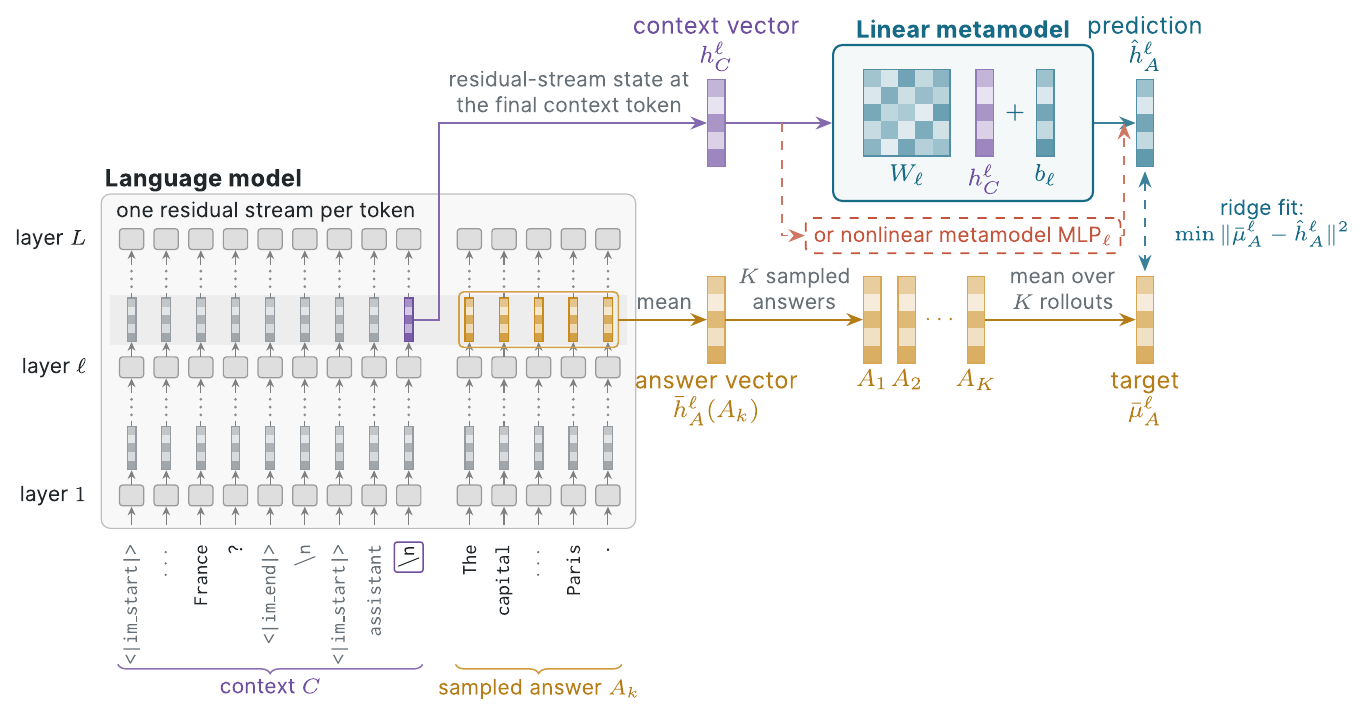
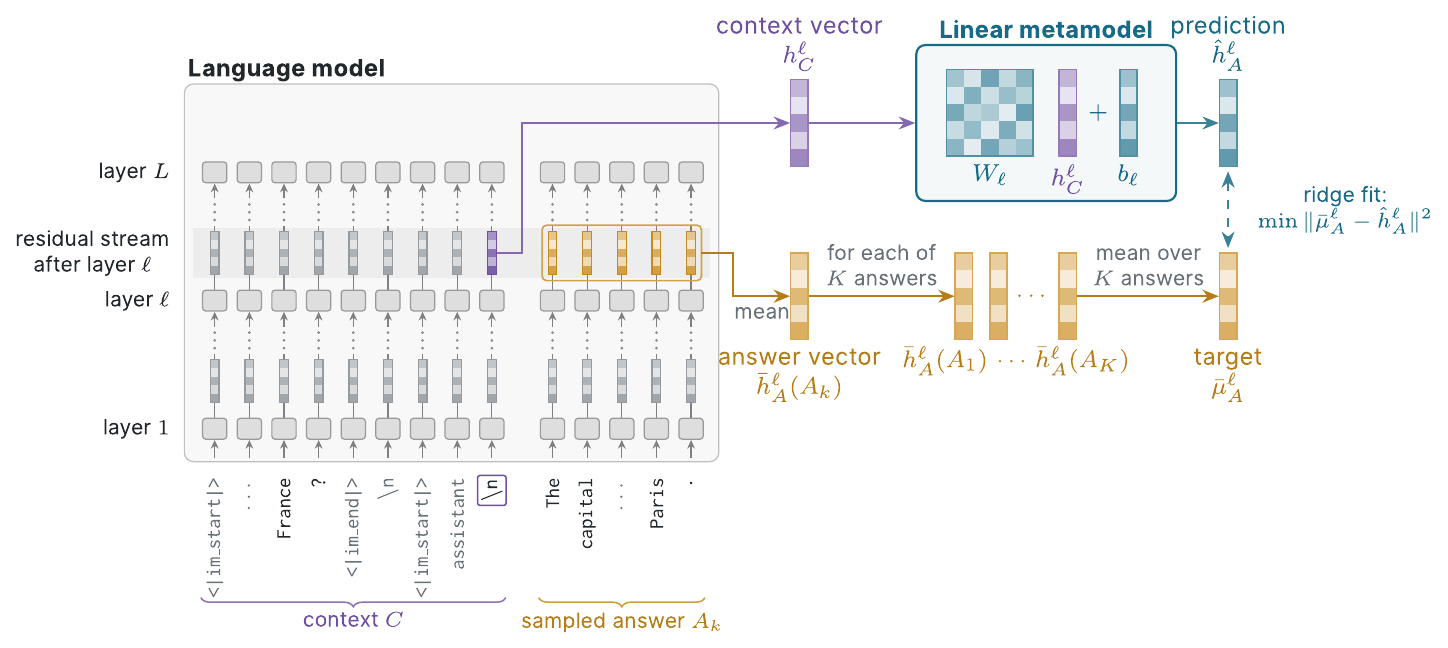
paper fig1 rev 11: model raised, continuous residual-stream lines + row label, MLP removed, K columns labeled as answer vectors (TikZ source + preview PNG)
Generated with [Claude Code](https://claude.ai/code)
via [Happy](https://happy.engineering)

diff --git a/docs/paper_context_answer_map/fig1_schematic.tex b/docs/paper_context_answer_map/fig1_schematic.tex
@@ -1,4 +1,4 @@
-% Figure 1: context-to-answer prediction pipeline (rev 10, 2026-09-03).
+% Figure 1: context-to-answer prediction pipeline (rev 11, 2026-09-03).
 % Compile standalone: pdflatex fig1_schematic.tex
 % THEN convert text to outlines before copying to Overleaf (REQUIRED):
 %   gs -q -dNOPAUSE -dBATCH -sDEVICE=pdfwrite -dNoOutputFonts -dCompatibilityLevel=1.5 \
@@ -10,20 +10,27 @@
 % removes all fonts from the figure PDF, so no viewer does any glyph lookup.
 %
 % Design (Thomas, 2026-09-03): the model is a grid of per-token residual streams
-% (Hendel et al. 2023 convention): for every token column, a small layer block, an
-% arrow, the residual-stream vector it outputs (a 5-cell column), dots for the elided
-% layers, the next block. Layer l's output vectors are the states we read: the final
-% context token's vector (dark) and the answer tokens' vectors (grouped). Every vector
-% in the figure is a contiguous 5-cell column, the ridge map a contiguous 5x5 grid,
-% so the predictor reads as matrix x column + column. Tokens are truncated but the
-% template tokens around the context/answer boundary are exact for Qwen2.5-7B-Instruct
-% (the context vector sits on the "\n" token after "assistant", token id 198).
+% (Hendel et al. 2023 convention). Each token column is ONE continuous vertical line,
+% the residual stream, with the layer blocks and the residual-stream states (5-cell
+% columns) sitting on it; dots elide layers. The row of states after layer l is the
+% shaded band, labeled "residual stream after layer l" on the left. The final context
+% token's state (violet) is tapped upward through the gap between the context and
+% answer columns and leaves the model through the empty strip above layer L; the
+% answer tokens' states (amber, grouped) are averaged into the answer vector. Every
+% vector is a contiguous 5-cell column, the ridge map a contiguous 5x5 grid, so the
+% predictor reads as matrix x column + column. Tokens are truncated but the template
+% tokens around the context/answer boundary are exact for Qwen2.5-7B-Instruct (the
+% context vector sits on the "\n" token after "assistant", token id 198).
 % Palette = paper palette (c2a_plot_style.py): ink #22272B, muted #687078, linear teal
-% #176B87, nonlinear terracotta #C4553D. Two text sizes: 8 pt (names) and 7 pt.
+% #176B87. Two text sizes: 8 pt (names) and 7 pt.
 % Side coding (rev 9): every context-side quantity (final context token, h_C, the
 % predictor input) is violet #6F4FA0; every answer-side quantity (answer tokens' states,
 % answer vector, the K answer vectors, the target) is amber #C98A1B. The prediction
 % stays teal because it is the predictor's output.
+% Rev 11 (Thomas): model box raised so its top sits between the two right-hand rows
+% (context tap runs inside the model's top strip, above layer L, clear of every column);
+% the nonlinear-metamodel bypass is gone; the K columns are labeled as the answer
+% vectors h_A(A_1) ... h_A(A_K), not as the answers A_i.
 \documentclass[tikz,border=4pt]{standalone}
 \usepackage[type1]{inter}
 \renewcommand{\familydefault}{\sfdefault}
@@ -34,7 +41,6 @@
 \definecolor{ink}{HTML}{22272B}
 \definecolor{muted}{HTML}{687078}
 \definecolor{teal}{HTML}{176B87}
-\definecolor{terra}{HTML}{C4553D}
 \definecolor{ctx}{HTML}{6F4FA0}   % context side
 \definecolor{ans}{HTML}{C98A1B}   % answer side
 \definecolor{paper}{HTML}{FFFFFF}
@@ -50,7 +56,7 @@
   \end{scope}
   \node[inner sep=0pt, minimum width=0.20cm, minimum height=1.0cm] (#1) at (#2,#3) {};
 }
-% ---- small residual-stream vector inside the model: 5 SQUARE cells, 0.10 x 0.50 cm --
+% ---- small residual-stream state inside the model: 5 SQUARE cells, 0.10 x 0.50 cm ---
 % \minivec{<x>}{<y>}{<color>}{<shade list>}{<outline>}
 \newcommand{\minivec}[5]{%
   \begin{scope}[shift={(#1,#2)}]
@@ -74,24 +80,25 @@
   \node[inner sep=0pt, minimum width=1.0cm, minimum height=1.0cm] (#1) at (#2,#3) {};
 }
 % ---- one residual stream per token column -----------------------------------------
-% \stream{<x>}{<token label style>}{<token>}{<layer-l vector color>}{<shades>}{<outline>}
-%   token -> [layer 1] -> vector -> ... -> [layer l] -> vector (read here) -> ... -> [layer L]
+% \stream{<x>}{<token label style>}{<token>}{<layer-l state color>}{<shades>}{<outline>}
+% One continuous vertical line (the residual stream) from the token up to layer L; the
+% layer blocks and the states sit ON the line, drawn after it; dots elide layers.
+% Rows: token 1.24, block 1 at 1.77, state 2.32, dots 2.70-2.88, block l 3.25,
+%       state 3.80 (the read row), dots 4.18-4.36, block L 4.73.
 \newcommand{\stream}[6]{%
-  \node[#2] at (#1,0.47) {#3};
-  \draw[mini] (#1,0.66) -- (#1,0.87);
-  \node[blk] at (#1,1.00) {};
-  \draw[mini] (#1,1.12) -- (#1,1.29);
-  \minivec{#1}{1.55}{muted}{40,18,54,26,62}{muted!70}
-  \draw[black!50, line width=0.35pt] (#1,1.80) -- (#1,1.86);
-  \fill[black!45] (#1,1.93) circle (0.5pt) (#1,2.02) circle (0.5pt) (#1,2.11) circle (0.5pt);
-  \draw[mini] (#1,2.18) -- (#1,2.35);
-  \node[blk] at (#1,2.48) {};
-  \draw[mini] (#1,2.60) -- (#1,2.77);
-  \minivec{#1}{3.03}{#4}{#5}{#6}
-  \draw[black!50, line width=0.35pt] (#1,3.28) -- (#1,3.34);
-  \fill[black!45] (#1,3.41) circle (0.5pt) (#1,3.50) circle (0.5pt) (#1,3.59) circle (0.5pt);
-  \draw[mini] (#1,3.66) -- (#1,3.83);
-  \node[blk] at (#1,3.96) {};
+  \node[#2] at (#1,1.24) {#3};
+  \draw[mini] (#1,1.43) -- (#1,1.64);
+  \draw[streamline] (#1,1.89) -- (#1,2.63);
+  \fill[black!45] (#1,2.70) circle (0.5pt) (#1,2.79) circle (0.5pt) (#1,2.88) circle (0.5pt);
+  \draw[mini] (#1,2.95) -- (#1,3.12);
+  \draw[streamline] (#1,3.37) -- (#1,4.11);
+  \fill[black!45] (#1,4.18) circle (0.5pt) (#1,4.27) circle (0.5pt) (#1,4.36) circle (0.5pt);
+  \draw[mini] (#1,4.43) -- (#1,4.60);
+  \node[blk] at (#1,1.77) {};
+  \node[blk] at (#1,3.25) {};
+  \node[blk] at (#1,4.73) {};
+  \minivec{#1}{2.32}{muted}{40,18,54,26,62}{muted!70}
+  \minivec{#1}{3.80}{#4}{#5}{#6}
 }
 
 \begin{document}
@@ -107,24 +114,24 @@
   tokink/.style={tok, text=ink},
   blk/.style={draw=black!40, fill=black!13, line width=0.4pt, rounded corners=1pt,
               minimum width=0.28cm, minimum height=0.24cm, inner sep=0pt},
-  mini/.style={->, black!50, line width=0.35pt, >={Stealth[length=1mm, width=0.9mm]}},
+  streamline/.style={black!50, line width=0.4pt},
+  mini/.style={->, black!50, line width=0.4pt, >={Stealth[length=1mm, width=0.9mm]}},
   flow/.style={->, line width=0.6pt, ink!70},
-  bypass/.style={->, dashed, line width=0.5pt, terra!80},
 ]
 
 % ===========================================================================
 % Left: the language model, one residual stream per token column.
 % Context columns i = 0..8 at x = 0.80 + 0.40 i; answer columns j = 0..4 at x = 4.70 + 0.40 j.
-% Rows: block 1 at y = 1.00, vector 1.55, block l 2.48, vector 3.03, block L 3.96.
+% Box 1.39..5.75; the strip 4.85..5.75 above layer L is empty except for the context tap.
 % ===========================================================================
-\draw[fill=black!3, draw=black!25, rounded corners=3pt] (0.45,0.62) rectangle (6.62,4.48);
-\node[lbl, anchor=west, font=\fontsize{8}{9.5}\selectfont\bfseries] at (0.45,4.64) {Language model};
-\node[ann, anchor=west, text=ink] at (0.58,4.28) {one residual stream per token};
-\fill[black!7] (0.55,2.74) rectangle (6.52,3.32);   % band: the layer-l residual-stream states
+\draw[fill=black!3, draw=black!25, rounded corners=3pt] (0.45,1.39) rectangle (6.62,5.75);
+\node[lbl, anchor=west, font=\fontsize{8}{9.5}\selectfont\bfseries] at (0.45,5.91) {Language model};
+\fill[black!7] (0.55,3.51) rectangle (6.52,4.09);   % band: the residual-stream states after layer l
 
-\node[ann, anchor=east, text=ink] at (0.32,3.96) {layer $L$};
-\node[ann, anchor=east, text=ink] at (0.32,2.48) {layer $\ell$};
-\node[ann, anchor=east, text=ink] at (0.32,1.00) {layer $1$};
+\node[ann, anchor=east, text=ink] at (0.32,4.73) {layer $L$};
+\node[ann, anchor=east, text=ink] at (0.32,3.80) {residual stream\\after layer $\ell$};
+\node[ann, anchor=east, text=ink] at (0.32,3.25) {layer $\ell$};
+\node[ann, anchor=east, text=ink] at (0.32,1.77) {layer $1$};
 
 % context columns (first template token, an elision, then the exact tail of the prompt)
 \stream{0.80}{tok}{<|im\_start|>}{muted}{40,18,54,26,62}{muted!70}
@@ -135,42 +142,41 @@
 \stream{2.80}{tok}{\textbackslash n}{muted}{40,18,54,26,62}{muted!70}
 \stream{3.20}{tok}{<|im\_start|>}{muted}{40,18,54,26,62}{muted!70}
 \stream{3.60}{tok}{assistant}{muted}{40,18,54,26,62}{muted!70}
-% the final context token: "\n" after "assistant"; its layer-l vector is h_C
+% the final context token: "\n" after "assistant"; its layer-l state is h_C
 \stream{4.00}{tokink}{\textbackslash n}{ctx}{62,30,80,44,92}{ctx}
 \node[tokink, draw=ctx, line width=0.5pt, rounded corners=0.8pt, inner sep=1.2pt, fill=paper]
-  at (4.00,0.47) {\textbackslash n};
-\node[inner sep=0pt, minimum width=0.10cm, minimum height=0.50cm] (hfinal) at (4.00,3.03) {};
+  at (4.00,1.24) {\textbackslash n};
+\node[inner sep=0pt, minimum width=0.10cm, minimum height=0.50cm] (hfinal) at (4.00,3.80) {};
 % answer columns (the sampled answer's tokens, elided in the middle)
 \stream{4.70}{tokink}{The}{ans}{50,20,70,32,82}{ans}
 \stream{5.10}{tokink}{capital}{ans}{50,20,70,32,82}{ans}
 \stream{5.50}{tok}{$\cdots$}{ans}{50,20,70,32,82}{ans}
 \stream{5.90}{tokink}{Paris}{ans}{50,20,70,32,82}{ans}
 \stream{6.30}{tokink}{.}{ans}{50,20,70,32,82}{ans}
-% group of answer-token vectors at layer l
-\draw[ans!80, line width=0.55pt, rounded corners=1.5pt] (4.58,2.71) rectangle (6.42,3.35);
+% group of answer-token states after layer l
+\draw[ans!80, line width=0.55pt, rounded corners=1.5pt] (4.58,3.48) rectangle (6.42,4.12);
 
 % braces under the tokens
 \draw[decorate, decoration={brace, mirror, amplitude=3pt}, ctx!80, line width=0.5pt]
-  (0.64,-0.95) -- (4.16,-0.95) node[midway, below=3.5pt, ann, text=ctx] {context $C$};
+  (0.64,-0.18) -- (4.16,-0.18) node[midway, below=3.5pt, ann, text=ctx] {context $C$};
 \draw[decorate, decoration={brace, mirror, amplitude=3pt}, ans!85, line width=0.5pt]
-  (4.54,-0.95) -- (6.46,-0.95) node[midway, below=3.5pt, ann, text=ans!90!black] {sampled answer $A_k$};
+  (4.54,-0.18) -- (6.46,-0.18) node[midway, below=3.5pt, ann, text=ans!90!black] {sampled answer $A_k$};
 
 % ===========================================================================
-% Middle: the two vectors read off layer l.  Bottom row y = 2.99 (aligned with
-% the layer-l vectors), top row y = 5.30.
+% Middle: the two vectors read off layer l.  Top row y = 5.30 (context), bottom
+% row y = 3.30 (answer); the band sits between them at 3.80.
 % ===========================================================================
 \colvec{hc}{7.55}{5.30}{ctx}
 \node[lbl, text=ctx, anchor=south, align=center] at (7.55,5.86) {context vector\\$h_C^{\ell}$};
-\draw[flow, ctx!85] (hfinal.east) -- (4.35,3.03) -- (4.35,5.30) -- (hc.west);
-\node[ann, anchor=south] at (5.85,5.38) {residual-stream state at\\the final context token};
+\draw[flow, ctx!85] (hfinal.east) -- (4.35,3.80) -- (4.35,5.30) -- (hc.west);
 
-\colvec{ha}{7.55}{3.03}{ans}
-\node[lbl, text=ans!90!black, anchor=north, align=center] at (7.55,2.47) {answer vector\\$\bar h_A^{\ell}(A_k)$};
-\draw[flow, ans!90!black] (6.42,3.03) -- (ha.west);
-\node[ann, anchor=south] at (6.95,3.11) {mean};
+\colvec{ha}{7.55}{3.30}{ans}
+\node[lbl, text=ans!90!black, anchor=north, align=center] at (7.55,2.74) {answer vector\\$\bar h_A^{\ell}(A_k)$};
+\draw[flow, ans!90!black] (6.42,3.80) -- (6.78,3.80) -- (6.78,3.30) -- (ha.west);
+\node[ann, anchor=north] at (7.12,3.22) {mean};
 
 % ===========================================================================
-% Right: the predictor (top) and the prediction target (bottom).
+% Right: the linear metamodel (top) and the prediction target (bottom).
 % ===========================================================================
 \node[draw=teal, line width=0.7pt, fill=teal!5, rounded corners=3pt,
       minimum width=3.0cm, minimum height=1.8cm, inner sep=0pt] (ridge) at (10.40,5.30) {};
@@ -188,31 +194,23 @@
 \node[lbl, text=teal, anchor=south, align=center] at (12.50,5.86) {prediction\\$\hat h_A^{\ell}$};
 \draw[flow, teal!85] (ridge.east) -- (hhat.west);
 
-% nonlinear alternative: a small dashed bypass under the ridge box
-\node[draw=terra, dashed, line width=0.55pt, fill=paper, rounded corners=2pt,
-      inner sep=2.6pt, font=\fontsize{7}{8.4}\selectfont, text=terra]
-  (mlp) at (10.40,4.00) {or nonlinear metamodel MLP$_\ell$};
-\draw[bypass] (8.31,5.30) -- (8.31,4.00) -- (mlp.west);
-\draw[bypass] (mlp.east) -- (12.26,4.00) -- (12.26,5.30);
-
 % prediction target: mean over the answer vectors of K sampled answers
-\colvec{a1}{9.35}{3.03}{ans}
-\colvec{a2}{9.75}{3.03}{ans}
-\node[lbl, text=ans!90!black, inner sep=0pt] at (10.15,3.03) {$\cdots$};
-\colvec{aK}{10.55}{3.03}{ans}
-\node[lbl, text=ans!90!black, anchor=north, inner sep=0.5pt] at (9.35,2.48) {$A_1$};
-\node[lbl, text=ans!90!black, anchor=north, inner sep=0.5pt] at (9.75,2.48) {$A_2$};
-\node[lbl, text=ans!90!black, anchor=north, inner sep=0.5pt] at (10.55,2.48) {$A_K$};
+\colvec{a1}{9.45}{3.30}{ans}
+\colvec{a2}{9.85}{3.30}{ans}
+\node[lbl, text=ans!90!black, inner sep=0pt] at (10.25,3.30) {$\cdots$};
+\colvec{aK}{10.65}{3.30}{ans}
+\node[lbl, text=ans!90!black, anchor=north, inner sep=0.5pt] at (10.05,2.75)
+  {$\bar h_A^{\ell}(A_1)\,\cdots\,\bar h_A^{\ell}(A_K)$};
 \draw[flow, ans!90!black] (ha.east) -- (a1.west);
-\node[ann, anchor=south] at (8.45,3.11) {$K$ sampled\\answers};
-\colvec{mu}{12.50}{3.03}{ans}
-\node[lbl, text=ans!90!black, anchor=north, align=center] at (12.50,2.47) {target\\$\bar\mu_A^{\ell}$};
+\node[ann, anchor=south] at (8.50,3.38) {for each of\\$K$ answers};
+\colvec{mu}{12.50}{3.30}{ans}
+\node[lbl, text=ans!90!black, anchor=north, align=center] at (12.50,2.74) {target\\$\bar\mu_A^{\ell}$};
 \draw[flow, ans!90!black] (aK.east) -- (mu.west);
-\node[ann, anchor=south] at (11.55,3.11) {mean over\\$K$ rollouts};
+\node[ann, anchor=south] at (11.58,3.38) {mean over\\$K$ answers};
 
 % fit: prediction against target
 \draw[<->, line width=0.6pt, teal!85, dashed] ($(hhat.south)+(0,-0.05)$) -- ($(mu.north)+(0,0.05)$);
-\node[ann, text=teal, anchor=west] at (12.80,4.15) {ridge fit:\\$\min\,\lVert \bar\mu_A^{\ell}-\hat h_A^{\ell}\rVert^{2}$};
+\node[ann, text=teal, anchor=west] at (12.80,4.30) {ridge fit:\\$\min\,\lVert \bar\mu_A^{\ell}-\hat h_A^{\ell}\rVert^{2}$};
 
 \end{tikzpicture}
 \end{document}
